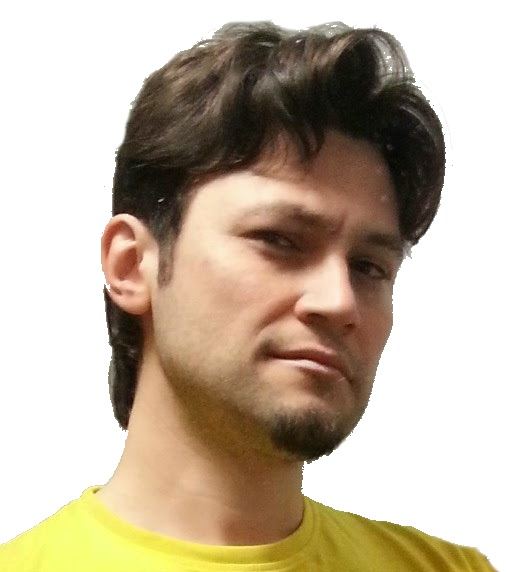
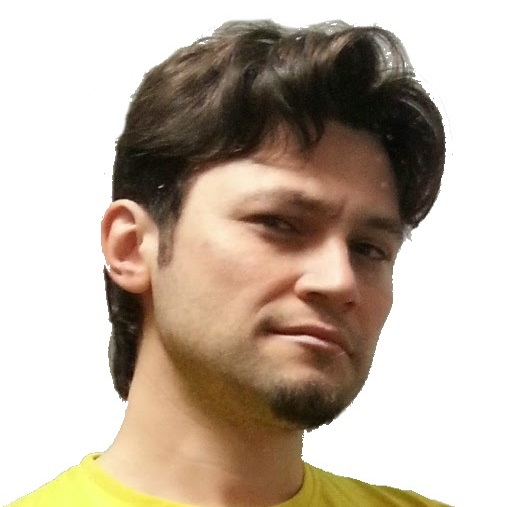
justify, plus new content

Changed region(s): [[0.0, 0.0296, 0.9763, 1.0], [0.3846, 0.4438, 0.503, 0.5325]]

diff --git a/index.html b/index.html
@@ -25,7 +25,7 @@
 						<div id="logo">
 							<span class="image avatarBig"><img src="images/avatar.jpg" alt="" /></span>
 							<h1 id="title">Daniel Duma</h1>
-							<p>PhD student. NLP, NLG & IR</p>
+							<p>PhD student | NLP, NLG & IR</p>
 						</div>
 
 					<!-- Nav -->
@@ -74,15 +74,16 @@
 				<!-- Intro -->
 					<section id="top" class="one dark cover">
 						<div class="container">
-
-							<p>Hi. I'm <strong>Daniel Duma</strong>.
-							I am a PhD student at the University of Edinburgh, in the <a href="http://www.ilcc.inf.ed.ac.uk/">Institute for Language, Cognition and Computation</a>, School of Informatics, under the supervision of <a href="http://homepages.inf.ed.ac.uk/ewan/">Ewan Klein</a>, <a href="http://homepages.inf.ed.ac.uk/csutton/"> Charles Sutton</a> and  <a href="https://www2.warwick.ac.uk/fac/sci/dcs/people/maria_liakata/"> Maria Liakata</a>. I am currently based at the <a href="https://turing.ac.uk/"> Alan Turing Institute</a>. <br/><br/>
+							<div  style="display: table;">
+							<img src="images/avatar.jpg" width=253 alt="" style="padding:0 20px 20px 0; vertical-align: top;" />
+							<span style="display: table-cell;">Hi. I'm <strong>Daniel Duma</strong>.
+							I am a PhD student at the University of Edinburgh, in the <a href="http://www.ilcc.inf.ed.ac.uk/">Institute for Language, Cognition and Computation</a>, School of Informatics, under the supervision of <a href="http://homepages.inf.ed.ac.uk/ewan/">Ewan Klein</a>, <a href="http://homepages.inf.ed.ac.uk/csutton/"> Charles Sutton</a> and  <a href="https://www2.warwick.ac.uk/fac/sci/dcs/people/maria_liakata/"> Maria Liakata</a>. I am currently based at the <a href="https://turing.ac.uk/"> Alan Turing Institute</a>. </div>						
 							
-							My current PhD research deals with recommending relevant citations to the author of an academic paper. Like others before, I am framing this task as an <strong>Information Retrieval</strong> scenario but I am trying to incorporate more sophisticated <strong>Natural Language Processing</strong> techniques. One particularly important avenue of research so far has been applying functional argumentation schemes to context-based citation recommendation. Two of these schemes I am working with are CoreSC and Argumentative Zoning. My upcoming focus is query generation and keyword extraction using neural sequential models.<br/><br/>
+							My current PhD research deals with recommending relevant citations to the author of an academic paper. Like others before, I am framing this task as an <strong>Information Retrieval</strong> scenario but I am trying to incorporate more sophisticated <strong>Natural Language Processing</strong> techniques. One particularly important avenue of research so far has been applying functional argumentation schemes to context-based citation recommendation. Two of these schemes I am working with are CoreSC and Argumentative Zoning. My upcoming focus is query generation and keyword extraction using neural sequential models.</span>
 							
 							I am interested in all areas of NLP and AI, and I have previous experience in  Natural Language Generation for Linked Data for my MSc dissertation.
-							<br/><br/>
-
+							
+							
 							<footer>
 								<a href="#research" class="button scrolly">Research and publications</a>
 							</footer>
@@ -169,10 +170,12 @@
 							<header>
 								<h2>Projects</h2>
 							</header>
-
-							<a href="#" class="image featured"><img src="images/pic08.jpg" alt="" /></a>
-
-							<p></p>
+							<p>
+							<a href="http://gscholarly.appspot.com/" class="image "><img src="images/Scholarly_logo_small_v2.png" alt="" /></a> With Scholarly (Scholarly Software Ltd, formerly www.scholarlyessay.com) we were aiming to create automated copy-editing software for academic writing: software that would tell you what to cut and how to reword it to fit the word limit, who to cite based on what you are saying, how to better structure your paragraphs, etc. We received investment and went through the 3-month Dotforge accelerator programme, and failed to raise sufficient funding with some 300 users. I wore many hats at Scholarly, including CEO and main product/UI designer, but I also wrote many lines of Python and Javascript.</p>
+							<p>
+							<a href="http://www.wearbeacon.com/" class="image"><img src="http://pure-cove-2897.herokuapp.com/assets/logo_white-bec9dcb04e8f4c07e908a5df8106328f.png" alt="" /></a>
+							Beacon (www.wearbeacon.com) is all about personalization. We set out to make a wearable, flexible, breathable screen that you can put on any fabric. We started with a t-shirt, of which we made several prototypes and we reached the semi-finals of the <strong>Intel Make it Wearable</strong> competition and received some seed funding from the University of Edinburgh. Eventually we dropped the effort just ahead of our kickstarter when the whole team decided we had PhDs we should better get on with. I was also CEO, product designer and lead programmer on this effort, mostly for the device firmware (Wiring/C/C++) but also for the Android app (Java).
+							</p>
 
 						</div>
 					</section>

diff --git a/assets/css/main.css b/assets/css/main.css
@@ -2150,7 +2150,7 @@ li.publication{
 			overflow: hidden;
 			padding: 4em 0;
 			box-shadow: inset 0 1px 0 0 rgba(0, 0, 0, 0.05), inset 0 0.1em 0.1em 0 rgba(0, 0, 0, 0.025);
-			text-align: center;
+			text-align: justify;
 			background-image: url("images/overlay.png");
 		}
 
